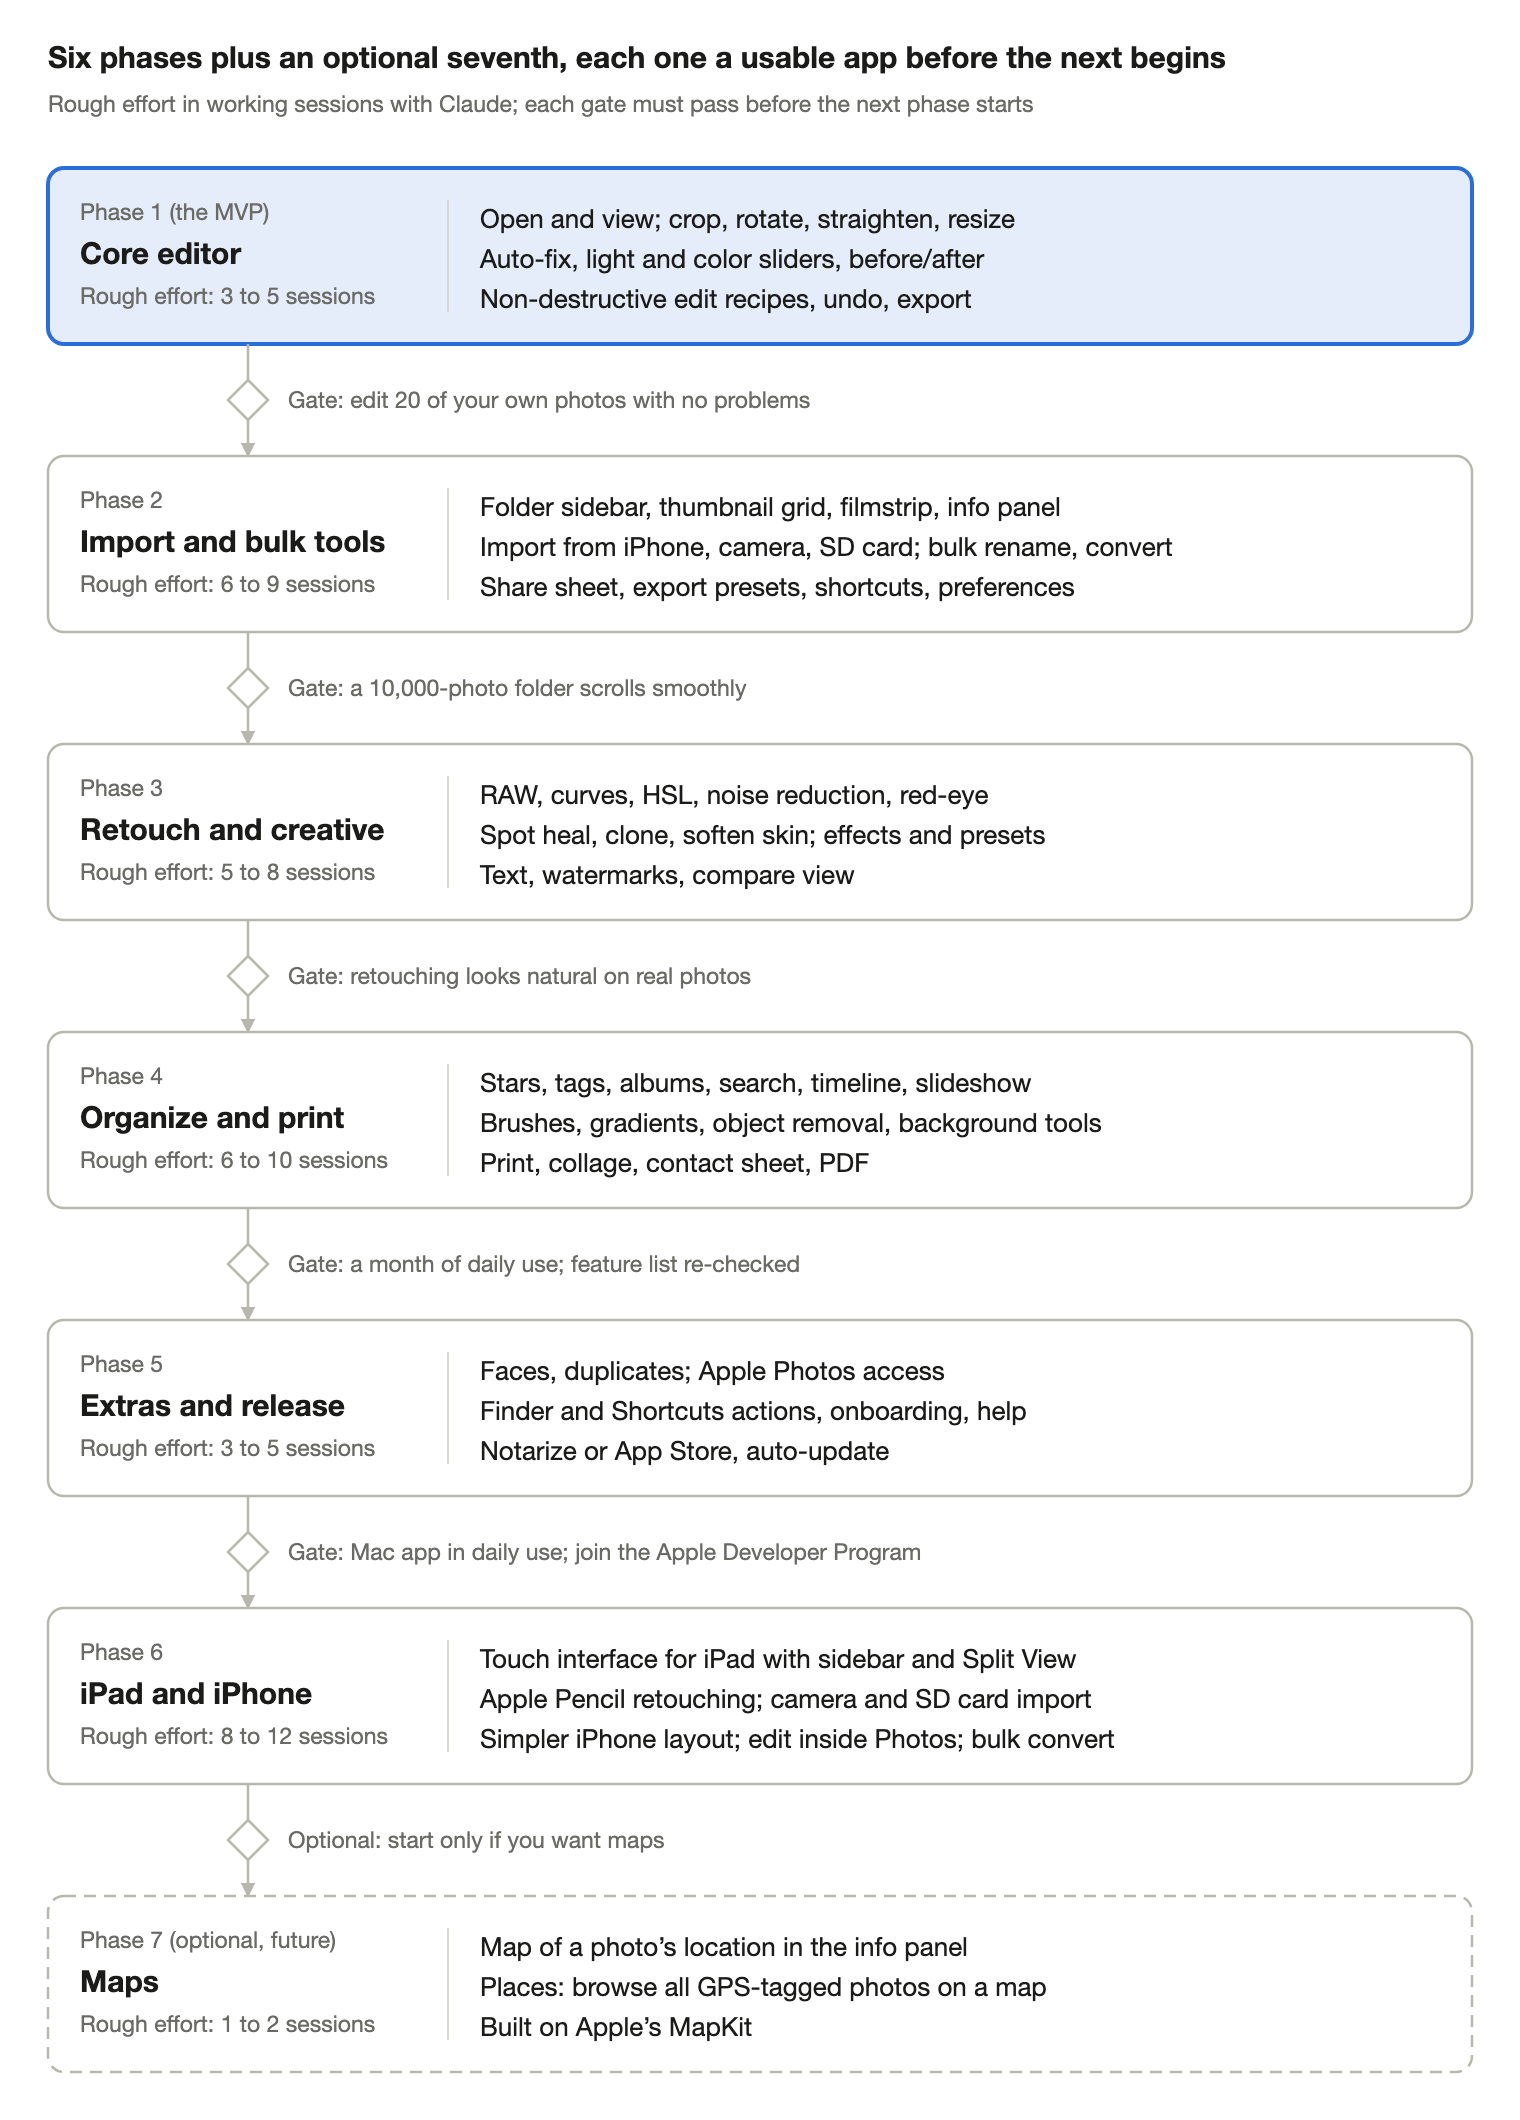
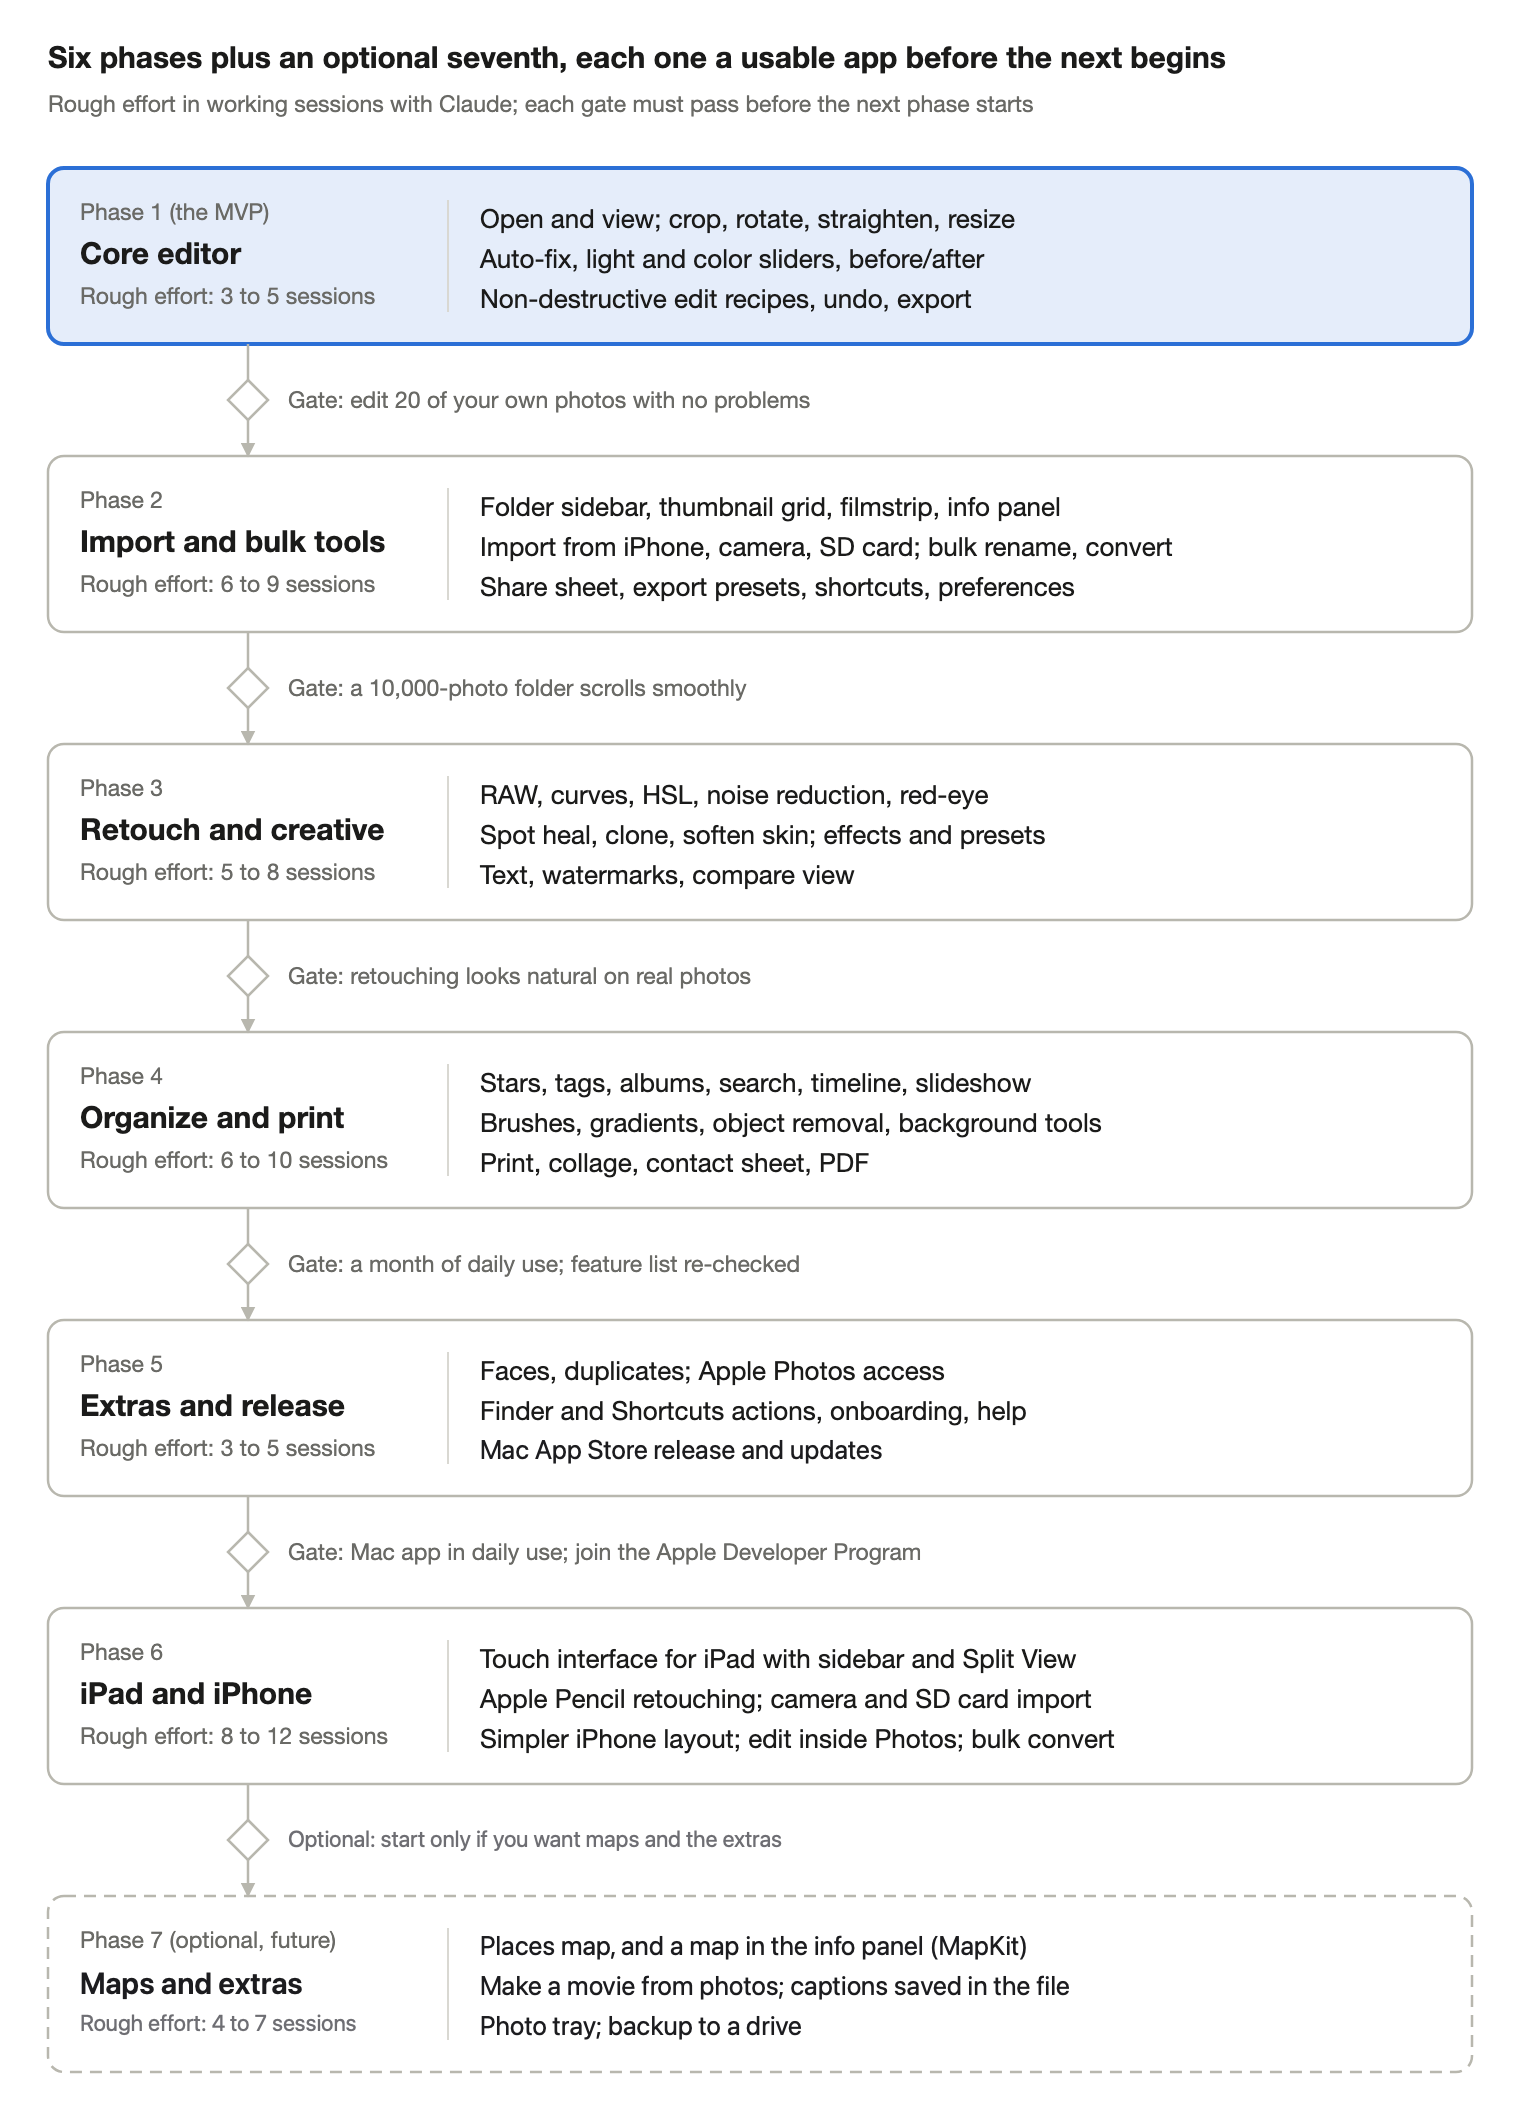
Plan: Phase 7 becomes Maps and extras
Adds make a movie, captions saved in the file, a photo tray and backup to the
optional Phase 7 (113 features; Phase 7 effort 4-7 sessions). The roadmap image
now also reflects the Mac App Store decision for Phase 5. Mirrored in the
Claude Doc.

diff --git a/docs/plan.md b/docs/plan.md
@@ -40,7 +40,7 @@ The app will be built in Swift with SwiftUI, on Apple's own frameworks only. Tha
 
 ## Full feature list
 
-The full version has 109 features in 11 areas. The Phase column shows which release adds each one (phases are described in the next section).
+The full version has 113 features in 11 areas. The Phase column shows which release adds each one (phases are described in the next section).
 
 ### 1. Browsing and viewing
 
@@ -55,6 +55,7 @@ The full version has 109 features in 11 areas. The Phase column shows which rele
 | Slideshow | Full-screen slideshow with timing, transitions and optional music | 4 |
 | Info panel | Camera, lens, exposure, date, size and GPS coordinates (map view in Phase 7) | 2 |
 | Live update | New, renamed or deleted files appear in the app right away | 2 |
+| Photo tray | Hold photos from any folders in a tray, then export, share, print, collage, slideshow or add them to an album together | 7 |
 | Formats | JPEG, PNG, HEIC, TIFF, GIF, WebP, BMP and camera RAW | 1 (RAW in 3) |
 
 ### 2. Basic fixes
@@ -171,6 +172,7 @@ Bulk tools work on hundreds or thousands of photos at once. Every bulk job shows
 | Contact sheet | Many thumbnails on one page with names | 4 |
 | Collage | Grid, mosaic and freeform layouts with spacing and background | 4 |
 | Export to PDF | Combine selected photos into one PDF | 4 |
+| Make a movie | Turn photos into a video file with timing, transitions, titles and a song | 7 |
 
 ### 9. Organizing
 
@@ -182,6 +184,7 @@ Bulk tools work on hundreds or thousands of photos at once. Every bulk job shows
 | Search | By name, tag, date, camera, rating and text inside the photo (Vision OCR) | 4 |
 | Face grouping | Find and group faces on the Mac, with nothing sent to the cloud; name people | 5 |
 | Places | Map of photos that have GPS location, plus a map in the info panel (MapKit) | 7 |
+| Captions | A caption for each photo, shown under it, searchable, and saved inside the file (IPTC/XMP) so other apps see it | 7 |
 | Find duplicates | Exact and near-duplicate detection | 5 |
 | File operations | Move, copy, rename, delete to Trash, reveal in Finder | 2 |
 
@@ -200,6 +203,7 @@ Bulk tools work on hundreds or thousands of photos at once. Every bulk job shows
 | Accessibility | VoiceOver labels, keyboard-only use, larger text, reduced motion | 2 onward |
 | Help and onboarding | First-run tour, built-in help, tooltips | 5 |
 | Auto-update | Through the Mac App Store | 5 |
+| Backup | Copy photos and their Fotolark edits to an external drive; later backups copy only what's new or changed | 7 |
 
 ### 11. iPad and iPhone
 
@@ -219,7 +223,7 @@ These reuse the Mac app's editing engine and add a touch interface. All of them 
 
 ## Release phases
 
-The full version ships in six phases plus an optional seventh, and each one ends with an app you can use every day. That means the work can pause or change direction at any gate. Phase 1 is the MVP; Phases 2 to 5 complete the Mac app, and Phase 6 brings it to iPad and iPhone. Phase 7 (maps) is optional and only happens if wanted.
+The full version ships in six phases plus an optional seventh, and each one ends with an app you can use every day. That means the work can pause or change direction at any gate. Phase 1 is the MVP; Phases 2 to 5 complete the Mac app, and Phase 6 brings it to iPad and iPhone. Phase 7 (maps and extras) is optional and only happens if wanted.
 
 ![Release roadmap: 6 phases plus optional Phase 7](roadmap.png)
 
@@ -230,10 +234,10 @@ The full version ships in six phases plus an optional seventh, and each one ends
 | 3 | Retouch and creative | 5–8 | RAW, curves, HSL, noise reduction, red-eye; spot heal, clone, soften skin; effects and presets; text, watermarks, compare view | Retouching looks natural on real photos |
 | 4 | Organize and print | 6–10 | Stars, tags, albums, search, timeline, slideshow; brushes, gradients, object removal, background tools; print, collage, contact sheet, PDF | A month of daily use; feature list re-checked |
 | 5 | Extras and release | 3–5 | Faces, duplicates; Apple Photos access; Finder and Shortcuts actions, onboarding, help; Mac App Store release and updates | Mac app in daily use; join the Apple Developer Program |
-| 6 | iPad and iPhone | 8–12 | Touch interface for iPad; Apple Pencil retouching; camera and SD card import; simpler iPhone layout; edit inside Photos; bulk convert | Optional: start Phase 7 only if you want maps |
-| 7 | Maps (optional, future) | 1–2 | Map of a photo's location in the info panel; Places map of all GPS-tagged photos; built on MapKit | — |
+| 6 | iPad and iPhone | 8–12 | Touch interface for iPad; Apple Pencil retouching; camera and SD card import; simpler iPhone layout; edit inside Photos; bulk convert | Optional: start Phase 7 only if you want maps and the extras |
+| 7 | Maps and extras (optional, future) | 4–7 | Map of a photo's location in the info panel; Places map of all GPS-tagged photos (MapKit); make a movie from photos (AVFoundation); captions saved in the file; photo tray; backup to a drive | — |
 
-The rough total is 31 to 49 working sessions for Phases 1 to 6, plus 1 to 2 for the optional Phase 7, spread over a few months at a relaxed pace. These estimates are guesses and will get firmer after Phase 1.
+The rough total is 31 to 49 working sessions for Phases 1 to 6, plus 4 to 7 for the optional Phase 7, spread over a few months at a relaxed pace. These estimates are guesses and will get firmer after Phase 1.
 
 ## Out of scope (on purpose)
 
@@ -263,7 +267,7 @@ The hardest parts are the interactive tools (crop handles, brushes, healing) and
 | Big bulk jobs on iPad and iPhone | iOS pauses work soon after you leave the app | Keep the job queue resumable; show a "keep the app open" note on large jobs |
 | Engine drifts to Mac-only code | Makes Phase 6 much bigger | Keep the shared FotolarkKit free of Mac-only code; build it for iPad as well from Phase 1 |
 | Naming and trademarks | A name or look too close to Picasa or another app could force a rename after launch | "Fotolark" showed no apps, trademarks or domains in use (checked Nov 2026); run a USPTO class 9 search before launch; own icon, colors and wording; never use "Picasa", "Picasso" or Google phrases in the app; "for people who miss Picasa" only as a factual mention, never implying a link to Google |
-| Scope creep | 109 features is a lot | Ship each phase as a usable app; stop and use it before starting the next |
+| Scope creep | 113 features is a lot | Ship each phase as a usable app; stop and use it before starting the next |
 
 **Decisions needed:**
 

diff --git a/README.md b/README.md
@@ -60,7 +60,7 @@ The app is sandboxed and signed to run locally (no Apple Developer account neede
 
 ## Docs
 
-- [docs/plan.md](docs/plan.md) — full version plan: 109 features, 6 phases plus optional Phase 7, risks, next steps
+- [docs/plan.md](docs/plan.md) — full version plan: 113 features, 6 phases plus optional Phase 7 (maps and extras), risks, next steps
 - [docs/roadmap.png](docs/roadmap.png) — release roadmap diagram
 - [docs/naming-and-legal.md](docs/naming-and-legal.md) — name screening and rules for staying clear of Picasa/Google trademarks
 - [docs/release.md](docs/release.md) — Mac App Store release checklist; [app-store-listing.md](docs/app-store-listing.md), [privacy-policy.md](docs/privacy-policy.md) — drafts
